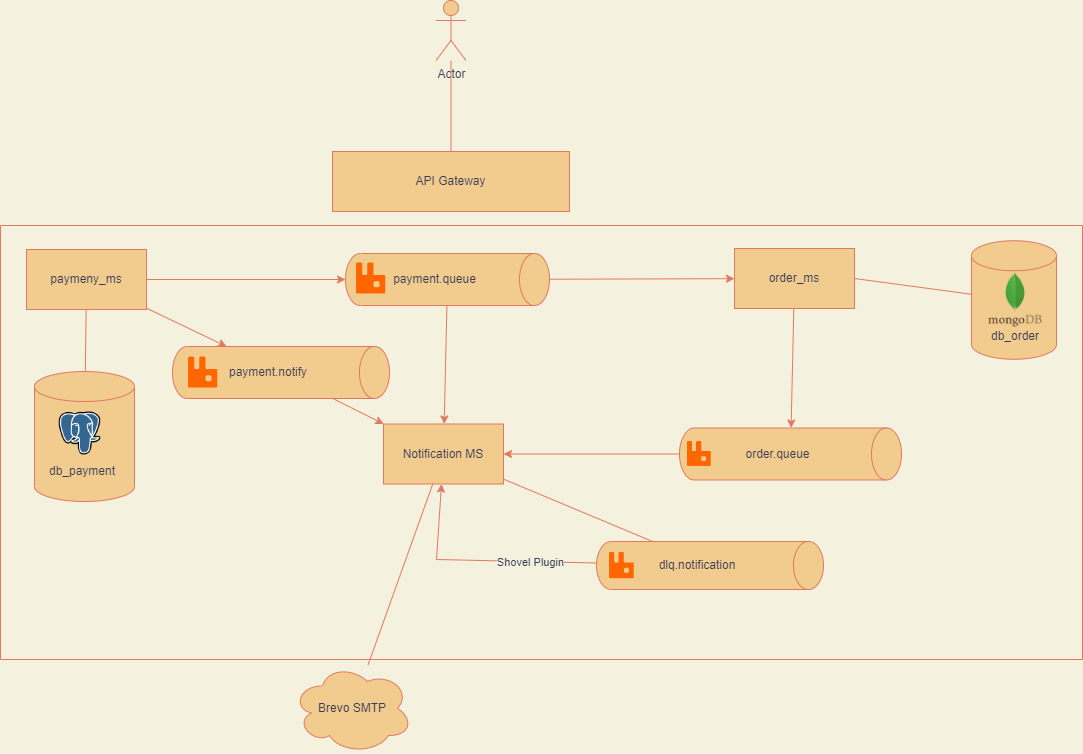
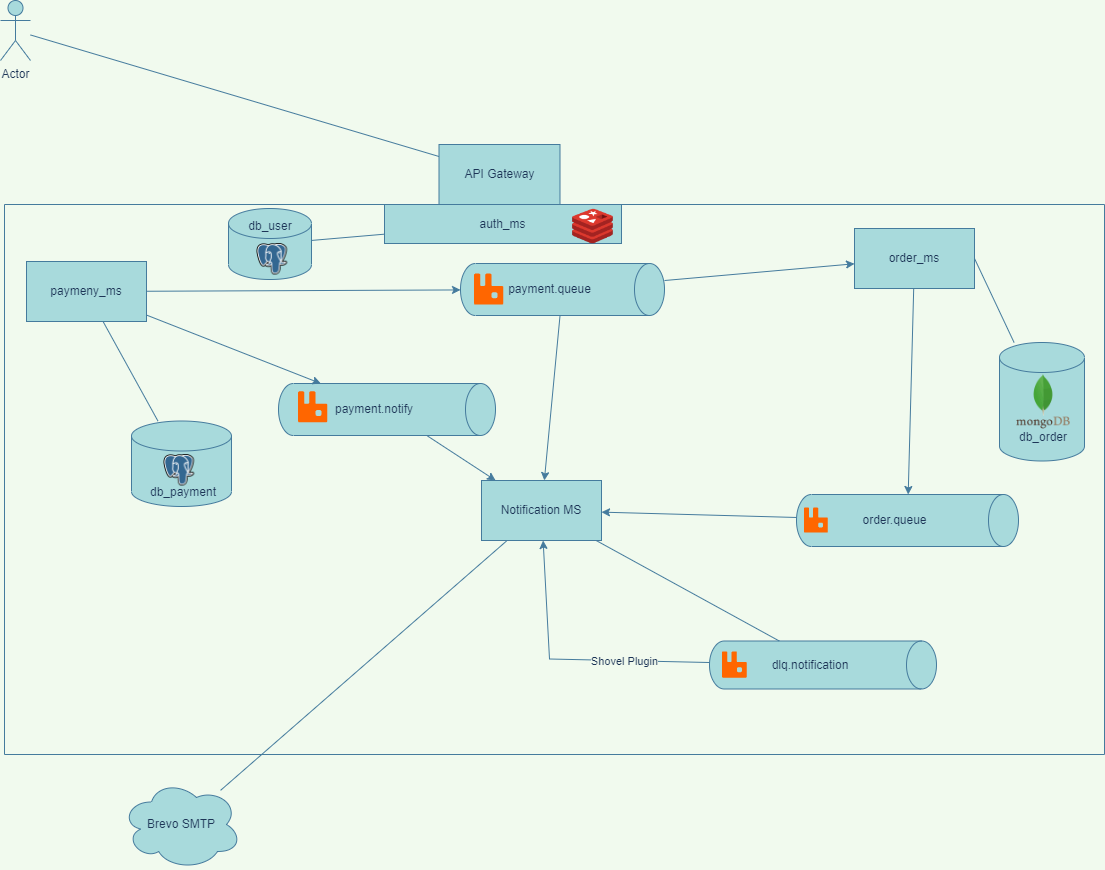
feat: auth service, generate opaque token, validate, login, logout

diff --git a/auth/src/main/java/com/example/auth/services/TokenService.java b/auth/src/main/java/com/example/auth/services/TokenService.java
@@ -1,0 +1,77 @@
+package com.example.auth.services;
+
+import com.example.auth.dtos.Dto;
+import com.fasterxml.jackson.databind.ObjectMapper;
+import jakarta.validation.ValidationException;
+import lombok.AllArgsConstructor;
+import org.springframework.data.redis.core.RedisTemplate;
+import org.springframework.stereotype.Service;
+
+import java.time.Instant;
+import java.util.UUID;
+
+import static org.springframework.util.ObjectUtils.isEmpty;
+
+@Service
+@AllArgsConstructor
+public class TokenService {
+
+    private static final String EMPTY_SPACE = " ";
+    private static final Integer TOKEN_INDEX = 1;
+    private static final Long ONE_DAY_IN_SECONDS = 86400L;
+
+    private final RedisTemplate<String, String> redisTemplate;
+    private final ObjectMapper objectMapper;
+
+    public String createToken(String username) {
+        var accessToken = UUID.randomUUID().toString();
+        var data = new Dto.TokenData(username);
+        var jsonData = getJsonData(data);
+        redisTemplate.opsForValue().set(accessToken, jsonData);
+        redisTemplate.expireAt(accessToken, Instant.now().plusSeconds(ONE_DAY_IN_SECONDS));
+        return accessToken;
+    }
+
+    private String getJsonData(Object payload) {
+        try {
+            return objectMapper.writeValueAsString(payload);
+        } catch (Exception ex) {
+            return "";
+        }
+    }
+
+    public Dto.TokenData getTokenData(String token) {
+        var accessToken = extractToken(token);
+        var jsonString = getRedisTokenValue(accessToken);
+        try {
+            return objectMapper.readValue(jsonString, Dto.TokenData.class);
+        } catch (Exception ex) {
+            throw new RuntimeException("Error extracting the authenticated user: " + ex.getMessage());
+        }
+    }
+
+    public boolean validateAccessToken(String token) {
+        var accessToken = extractToken(token);
+        var data = getRedisTokenValue(accessToken);
+        return !isEmpty(data);
+    }
+
+    private String getRedisTokenValue(String token) {
+        return redisTemplate.opsForValue().get(token);
+    }
+
+    public void deleteRedisToken(String token) {
+        var accessToken = extractToken(token);
+        redisTemplate.delete(accessToken);
+    }
+
+    private String extractToken(String token) {
+        if (isEmpty(token)) {
+            throw new ValidationException("The access token was not informed.");
+        }
+        if (token.contains(EMPTY_SPACE)) {
+            return token.split(EMPTY_SPACE)[TOKEN_INDEX];
+        }
+        return token;
+    }
+}

diff --git a/auth/src/main/java/com/example/auth/services/AuthService.java b/auth/src/main/java/com/example/auth/services/AuthService.java
@@ -1,0 +1,66 @@
+package com.example.auth.services;
+
+import com.example.auth.dtos.Dto;
+import com.example.auth.model.User;
+import com.example.auth.repository.UserRepository;
+import jakarta.validation.ValidationException;
+import lombok.AllArgsConstructor;
+import org.springframework.security.crypto.password.PasswordEncoder;
+import org.springframework.stereotype.Service;
+
+import static org.springframework.util.ObjectUtils.isEmpty;
+
+@Service
+@AllArgsConstructor
+public class AuthService {
+
+    private final UserRepository repository;
+    private final PasswordEncoder passwordEncoder;
+
+    private final TokenService tokenService;
+
+    public Dto.TokenDTO login(Dto.AuthRequest request) {
+        var user = findByUsername(request.username());
+        validatePassword(request.password(), user.getPassword());
+        var accessToken = tokenService.createToken(user.getUsername());
+        return new Dto.TokenDTO(accessToken);
+    }
+
+    private void validatePassword(String rawPassword,
+                                  String encodedPassword) {
+        if (!passwordEncoder.matches(rawPassword, encodedPassword)) {
+            throw new ValidationException("The password is incorrect!");
+        }
+    }
+
+    public Dto.TokenDTO validateToken(String token) {
+        validateExistingToken(token);
+        var valid = tokenService.validateAccessToken(token);
+        if (valid) {
+            return new Dto.TokenDTO(token);
+        }
+        throw new RuntimeException("Invalid token!");
+    }
+
+    private void validateExistingToken(String token) {
+        if (isEmpty(token)) {
+            throw new ValidationException("The access token must be informed!");
+        }
+    }
+
+    public Dto.AuthUserResponse getAuthenticatedUser(String token) {
+        var tokenData = tokenService.getTokenData(token);
+        var user = findByUsername(tokenData.username());
+        return new Dto.AuthUserResponse(user.getId(), user.getUsername());
+    }
+
+    public void logout(String token) {
+        tokenService.deleteRedisToken(token);
+    }
+
+    private User findByUsername(String username) {
+        return repository
+                .findByUsername(username)
+                .orElseThrow(() -> new ValidationException("User not found!"));
+    }
+}

diff --git a/auth/src/main/java/com/example/auth/controller/AuthController.java b/auth/src/main/java/com/example/auth/controller/AuthController.java
@@ -1,0 +1,43 @@
+package com.example.auth.controller;
+
+import com.example.auth.dtos.Dto;
+import com.example.auth.services.AuthService;
+import lombok.AllArgsConstructor;
+import org.springframework.web.bind.annotation.*;
+
+import java.util.HashMap;
+
+@RestController
+@AllArgsConstructor
+@RequestMapping("auth")
+public class AuthController {
+
+    private final AuthService service;
+
+    @PostMapping("login")
+    public Dto.TokenDTO login(@RequestBody Dto.AuthRequest request) {
+        return service.login(request);
+    }
+
+    @PostMapping("token/validate")
+    public Dto.TokenDTO validateToken(@RequestHeader String accessToken) {
+        return service.validateToken(accessToken);
+    }
+
+    @PostMapping("logout")
+    public HashMap<String, Object> logout(@RequestHeader String accessToken) {
+        service.logout(accessToken);
+        var response = new HashMap<String, Object>();
+        response.put("status", "OK");
+        response.put("code", 200);
+        return response;
+    }
+
+    @GetMapping("user")
+    public Dto.AuthUserResponse getAuthenticatedUser(
+            @RequestHeader String accessToken) {
+        return service.getAuthenticatedUser(accessToken);
+    }
+
+
+}

diff --git a/auth/src/main/java/com/example/auth/infra/RedisConfig.java b/auth/src/main/java/com/example/auth/infra/RedisConfig.java
@@ -1,0 +1,34 @@
+package com.example.auth.infra;
+
+import org.springframework.beans.factory.annotation.Value;
+import org.springframework.context.annotation.Bean;
+import org.springframework.context.annotation.Configuration;
+import org.springframework.data.redis.connection.RedisConnectionFactory;
+import org.springframework.data.redis.connection.RedisStandaloneConfiguration;
+import org.springframework.data.redis.connection.lettuce.LettuceConnectionFactory;
+import org.springframework.data.redis.core.RedisTemplate;
+
+@Configuration
+public class RedisConfig {
+
+    @Value("${redis.host}")
+    private String redisHost;
+
+    @Value("${redis.port}")
+    private Integer redisPort;
+
+    @Bean
+    public LettuceConnectionFactory redisConnectionFactory() {
+        return new LettuceConnectionFactory(
+                new RedisStandaloneConfiguration(redisHost, redisPort));
+    }
+
+    @Bean
+    RedisTemplate<String, String> redisTemplate(
+            RedisConnectionFactory redisConnectionFactory) {
+        RedisTemplate<String, String> template = new RedisTemplate<>();
+        template.setConnectionFactory(redisConnectionFactory);
+        
+        return template;
+    }
+}

diff --git a/auth/src/main/java/com/example/auth/model/User.java b/auth/src/main/java/com/example/auth/model/User.java
@@ -1,0 +1,26 @@
+package com.example.auth.model;
+
+import jakarta.persistence.*;
+import lombok.AllArgsConstructor;
+import lombok.Builder;
+import lombok.Data;
+import lombok.NoArgsConstructor;
+
+@Data
+@Entity
+@Builder
+@NoArgsConstructor
+@AllArgsConstructor
+@Table(name = "user", schema = "public")
+public class User {
+
+    @Id
+    @GeneratedValue(strategy = GenerationType.IDENTITY)
+    private Integer id;
+
+    @Column(nullable = false)
+    private String username;
+
+    @Column(nullable = false)
+    private String password;
+}

diff --git a/auth/src/main/java/com/example/auth/infra/PasswordEncoderConfig.java b/auth/src/main/java/com/example/auth/infra/PasswordEncoderConfig.java
@@ -1,0 +1,15 @@
+package com.example.auth.infra;
+
+import org.springframework.context.annotation.Bean;
+import org.springframework.context.annotation.Configuration;
+import org.springframework.security.crypto.bcrypt.BCryptPasswordEncoder;
+import org.springframework.security.crypto.password.PasswordEncoder;
+
+@Configuration
+public class PasswordEncoderConfig {
+
+    @Bean
+    public PasswordEncoder encoder() {
+        return new BCryptPasswordEncoder();
+    }
+}

diff --git a/auth/src/main/java/com/example/auth/dtos/Dto.java b/auth/src/main/java/com/example/auth/dtos/Dto.java
@@ -1,0 +1,16 @@
+package com.example.auth.dtos;
+
+public class Dto {
+
+    public record AuthRequest(String username, String password) {
+    }
+
+    public record AuthUserResponse(Integer id, String username) {
+    }
+
+    public record TokenDTO(String accessToken) {
+    }
+
+    public record TokenData(String username) {
+    }
+}

diff --git a/auth/src/main/java/com/example/auth/repository/UserRepository.java b/auth/src/main/java/com/example/auth/repository/UserRepository.java
@@ -1,0 +1,11 @@
+package com.example.auth.repository;
+
+import com.example.auth.model.User;
+import org.springframework.data.jpa.repository.JpaRepository;
+
+import java.util.Optional;
+
+public interface UserRepository extends JpaRepository<User, Integer> {
+
+    Optional<User> findByUsername(String username);
+}
